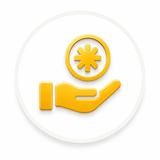
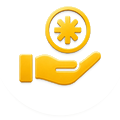
Icone panier en or (chariot+sac) sur ROM_BUSINESS + fix icone Encaisser sur ROM_MONEY
1) ROM_BUSINESS : remplace le rectangle abstrait par un vrai sac (anses +
   corps) dans le chariot de l'icone "Vente", et passe la couleur de vert a
   or (--gold/--gold-l) pour un rendu premium, valide visuellement avec
   l'utilisateur avant deploiement (apercu artifact).

2) ROM_MONEY avait le meme icon-encaisser.png que ROM_BUSINESS avant son
   correctif (fond blanc opaque + grande marge transparente autour du
   dessin) - jamais synchronise localement jusqu'ici. Remplace par la
   version deja detouree/recadree, et augmente l'affichage (38px->48px)
   pour qu'elle remplisse le cadre comme les autres icones. Bump du cache
   SW (rommoney-shell-v7->v8) puisque ce fichier fait partie de
   SHELL_FILES.

Changed region(s): [[0.15, 0.05, 0.85, 0.725], [0.175, 0.725, 0.8, 0.925], [0.8, 0.725, 0.825, 0.775]]

diff --git a/business/index.html b/business/index.html
@@ -1200,10 +1200,12 @@ function navGo(p){
 }
 
 // ── HISTORIQUE / TRANSACTIONS ──
-var TX_ICO_BASKET='<svg width="19" height="19" viewBox="0 0 24 24" fill="none" stroke="var(--g)" stroke-width="1.8" stroke-linecap="round" stroke-linejoin="round"><path d="M4 9h16l-1.6 9.5A2 2 0 0116.4 20H7.6a2 2 0 01-2-1.5L4 9z"/><path d="M8 9V6a4 4 0 018 0v3"/><line x1="9" y1="13" x2="9.6" y2="17"/><line x1="15" y1="13" x2="14.4" y2="17"/></svg>';
+// Chariot avec un vrai sac (anses + corps), comme sur le logo ROM_BUSINESS,
+// en or (--gold) pour un rendu premium plutot qu'un rectangle abstrait vert.
+var TX_ICO_BASKET='<svg width="20" height="20" viewBox="0 0 24 24" fill="none" stroke="var(--gold)" stroke-width="1.7" stroke-linecap="round" stroke-linejoin="round"><path d="M2.5 3.5h2.2l2.7 11.3a2 2 0 001.95 1.55h7.7a2 2 0 001.95-1.55L20.8 8.5H6.6"/><path d="M10.2 6.3v-.9a1.8 1.8 0 013.6 0v.9" stroke-width="1.5"/><path d="M9.4 6.3h5.2l.55 4.3a1 1 0 01-1 1.15h-4.3a1 1 0 01-1-1.15l.55-4.3z" fill="var(--gold-l)" stroke-width="1.5"/><circle cx="10" cy="20" r="1.35" fill="var(--gold)" stroke="none"/><circle cx="17" cy="20" r="1.35" fill="var(--gold)" stroke="none"/></svg>';
 function txIcon(tx){
   if(tx.type==='vault_deposit'||tx.type==='vault_withdrawal') return {ico:'🔒',bg:'var(--gl)'};
-  if(tx.direction==='credit') return {ico:TX_ICO_BASKET,bg:'var(--gl)'};
+  if(tx.direction==='credit') return {ico:TX_ICO_BASKET,bg:'var(--gold-l)'};
   return {ico:'💸',bg:'var(--rl)'};
 }
 function renderTxRows(rows, containerId){

diff --git a/index.html b/index.html
@@ -554,7 +554,7 @@ html,body{height:100%;background:#085041;overflow:hidden;color:var(--t1)}
             <div class="qa-ico" style="font-size:0;display:flex;align-items:center;justify-content:center"><img src="./icon-payer.png" style="width:46px;height:46px;object-fit:contain"></div><span class="qa-lbl" data-i18n="home_qa_pay">Payer</span>
           </button>
           <button class="qa" onclick="openSheet('encaisser')">
-            <div class="qa-ico" style="font-size:0;display:flex;align-items:center;justify-content:center"><img src="./icon-encaisser.png" style="width:38px;height:38px;object-fit:contain"></div><span class="qa-lbl" data-i18n="home_qa_cash">Encaisser</span>
+            <div class="qa-ico" style="font-size:0;display:flex;align-items:center;justify-content:center"><img src="./icon-encaisser.png" style="width:48px;height:48px;object-fit:contain"></div><span class="qa-lbl" data-i18n="home_qa_cash">Encaisser</span>
           </button>
           <button class="qa" onclick="doOpenAide()">
             <div class="qa-ico">🆘</div><span class="qa-lbl" data-i18n="home_qa_help">Aide</span>

diff --git a/sw.js b/sw.js
@@ -10,7 +10,7 @@
 // reussi, donc pas de version figee : toujours la derniere connue.
 // ═══════════════════════════════════════════
 
-var CACHE_NAME = 'rommoney-shell-v7';
+var CACHE_NAME = 'rommoney-shell-v8';
 var SHELL_FILES = ['./', './index.html', './manifest.json',
   './favicon.png', './apple-touch-icon.png', './header-bg.jpg',
   './icon-envoyer.png', './icon-payer.png', './icon-encaisser.png',
